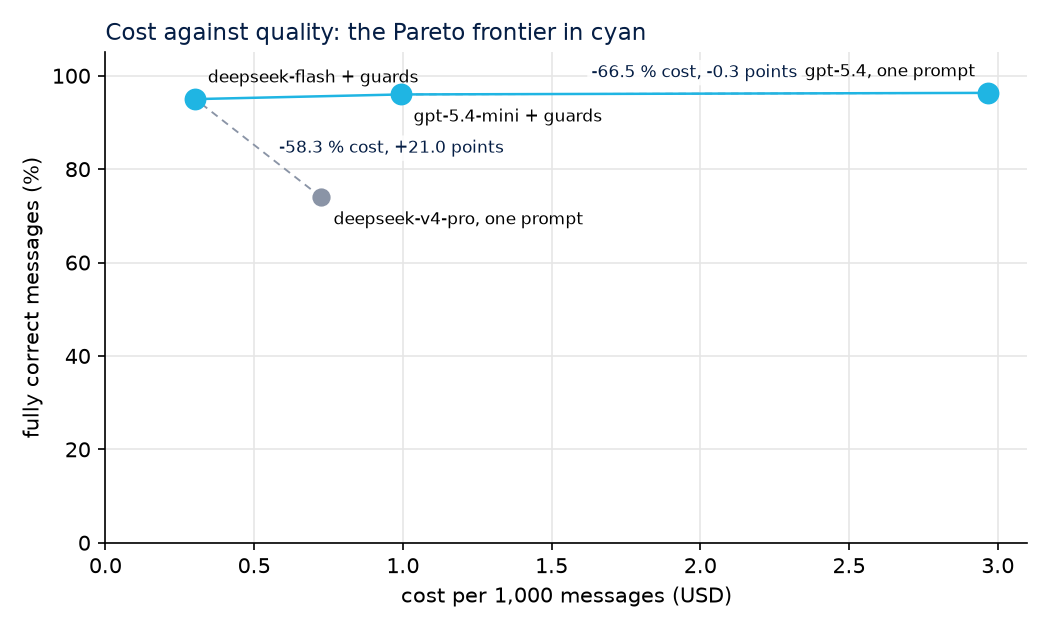
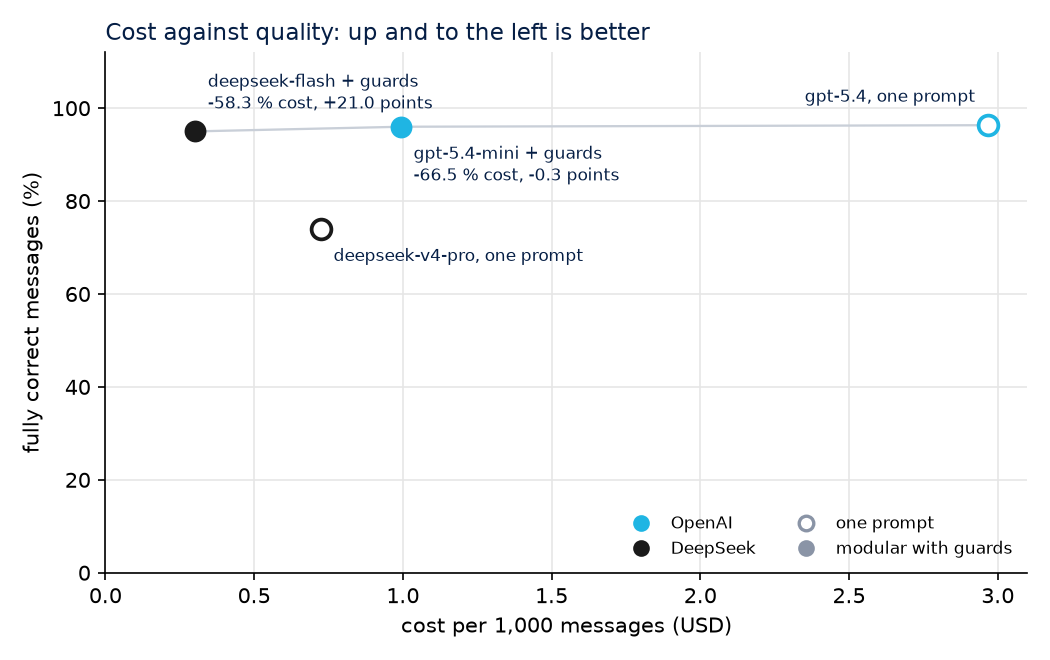
Chart: one colour per provider, hollow for one prompt and filled for the modular design, the pair's distance under each modular point, a legend

diff --git a/bench/report.py b/bench/report.py
@@ -12,6 +12,7 @@ import matplotlib
 matplotlib.use("Agg")
 import matplotlib.pyplot as plt  # noqa: E402
 import polars as pl  # noqa: E402
+from matplotlib.lines import Line2D  # noqa: E402
 
 from .meter import read_ledger  # noqa: E402
 from .pricing import load_prices  # noqa: E402
@@ -22,6 +23,9 @@ from .synth import load as load_cases  # noqa: E402
 
 NAVY, CYAN, GREY, SAND = "#051e45", "#1fb5e3", "#8a94a6", "#d9d2c5"
 PALETTE = [NAVY, CYAN, "#4f6d8f", "#9bd7ef", GREY, SAND]
+# One colour per provider on the cost-against-quality chart.
+PROVIDER_COLOURS = {"openai": CYAN, "anthropic": "#e8742c", "deepseek": "#1a1a1a", "gemini": "#2f9e6b", "mock": GREY}
+PROVIDER_NAMES = {"openai": "OpenAI", "anthropic": "Anthropic", "deepseek": "DeepSeek", "gemini": "Gemini", "mock": "simulated"}
 
 
 def _pct(value: float) -> str:
@@ -101,59 +105,91 @@ def pareto_frontier(points: list[tuple[float, float, str]]) -> list[tuple[float,
     return sorted(frontier)
 
 
+def _big_model(label: str) -> str | None:
+    """The big model behind an architecture's name, or None."""
+    if label.startswith("single (") and label.endswith(")"):
+        return label[8:-1]
+    if label.startswith("modular (") and " fallback)" in label:
+        return label[label.rfind(", ") + 2 : label.rfind(" fallback)")]
+    return None
+
+
 def chart_pareto(frame: pl.DataFrame, path: Path) -> list[str]:
+    """One colour per provider; a hollow point is the big model on one
+    prompt, a filled one the modular design with guards. Under each
+    modular point, its distance to the one-prompt design on the same big
+    model. Lower left is better; the frontier is the grey line."""
     points = list(zip(frame["cost_per_1k_usd"].to_list(), frame["correct"].to_list(), frame["arch"].to_list(), strict=True))
     frontier = pareto_frontier(points)
-    fig, ax = plt.subplots(figsize=(7, 4.2), dpi=150)
+    prices = load_prices()
+    by_label = {label: (cost, quality) for cost, quality, label in points}
+
+    def provider_of(label: str) -> str:
+        big = _big_model(label)
+        return prices[big].provider if big in prices else "mock"
+
+    def colour_of(label: str) -> str:
+        return PROVIDER_COLOURS.get(provider_of(label), GREY)
+
+    fig, ax = plt.subplots(figsize=(7, 4.4), dpi=150)
     widest = max(cost for cost, _, _ in points) or 1
-    # Short names by the points, pulled inwards on the right half. Along
-    # the top band, where the good designs crowd, names alternate above
-    # and below from the left so neighbours never run into each other.
+    if len(frontier) > 1:
+        ax.plot([c for c, _, _ in frontier], [100 * q for _, q, _ in frontier], color="#c9cfd8", linewidth=1.1, zorder=1)
+    # Names by the points, pulled inwards on the right half. Along the top
+    # band, where the good designs crowd, names alternate above and below
+    # from the left so neighbours never run into each other.
     top = [label for cost, quality, label in sorted(points) if quality >= 0.9]
     for cost, quality, label in points:
-        on_frontier = (cost, quality, label) in frontier
-        ax.scatter(cost, 100 * quality, s=90 if on_frontier else 60, color=CYAN if on_frontier else GREY, zorder=3)
+        modular = label.startswith("modular (")
+        colour = colour_of(label)
+        if modular:
+            ax.scatter(cost, 100 * quality, s=90, color=colour, zorder=3)
+        else:
+            ax.scatter(cost, 100 * quality, s=90, facecolors="white", edgecolors=colour, linewidths=1.8, zorder=3)
+        text = _short(label)
+        big = _big_model(label)
+        base = by_label.get(f"single ({big})") if modular and big else None
+        if base and base[0] > 0:
+            text += f"\n{100 * (cost / base[0] - 1):+.1f} % cost, {100 * (quality - base[1]):+.1f} points"
         right = cost > 0.6 * widest
         above = label in top and top.index(label) % 2 == 0
         ax.annotate(
-            _short(label),
+            text,
             (cost, 100 * quality),
             fontsize=8,
-            ha="right" if right else "left",
-            xytext=(-6 if right else 6, 8 if above else -13),
-            textcoords="offset points",
-        )
-    if len(frontier) > 1:
-        ax.plot([c for c, _, _ in frontier], [100 * q for _, q, _ in frontier], color=CYAN, linewidth=1.2, zorder=2)
-    # Each modular design against the single-prompt design on the same big
-    # model: a dashed line between the two and the distance written on it.
-    by_label = {label: (cost, quality) for cost, quality, label in points}
-    for label, (cost, quality) in by_label.items():
-        if not label.startswith("modular (") or " fallback)" not in label:
-            continue
-        big = label[label.rfind(", ") + 2 : label.rfind(" fallback)")]
-        base = by_label.get(f"single ({big})")
-        if not base or base[0] <= 0:
-            continue
-        ax.plot([base[0], cost], [100 * base[1], 100 * quality], color=GREY, linewidth=0.9, linestyle=(0, (4, 3)), zorder=1)
-        note = f"{100 * (cost / base[0] - 1):+.1f} % cost, {100 * (quality - base[1]):+.1f} points"
-        # Above a flat line; beside a steep one, where nothing else sits.
-        steep = abs(quality - base[1]) > 0.05
-        ax.annotate(
-            note,
-            ((base[0] + cost) / 2, 100 * (base[1] + quality) / 2),
-            fontsize=8,
             color=NAVY,
-            ha="left" if steep else "center",
-            va="center" if steep else "bottom",
-            xytext=(10, 0) if steep else (0, 6),
+            ha="right" if right else "left",
+            va="bottom" if above else "top",
+            xytext=(-6 if right else 6, 8 if above else -8),
             textcoords="offset points",
-            bbox={"boxstyle": "round,pad=0.25", "facecolor": "white", "edgecolor": "none", "alpha": 0.85},
+            linespacing=1.3,
         )
+    providers = sorted(
+        {provider_of(label) for _, _, label in points}, key=lambda p: list(PROVIDER_COLOURS).index(p) if p in PROVIDER_COLOURS else 99
+    )
+    handles = [
+        Line2D([], [], marker="o", linestyle="none", markersize=7, color=PROVIDER_COLOURS.get(p, GREY), label=PROVIDER_NAMES.get(p, p))
+        for p in providers
+    ]
+    handles += [
+        Line2D(
+            [],
+            [],
+            marker="o",
+            linestyle="none",
+            markersize=7,
+            markerfacecolor="white",
+            markeredgecolor=GREY,
+            markeredgewidth=1.6,
+            label="one prompt",
+        ),
+        Line2D([], [], marker="o", linestyle="none", markersize=7, color=GREY, label="modular with guards"),
+    ]
+    ax.legend(handles=handles, frameon=False, fontsize=8, loc="lower right", ncol=2)
     ax.set_xlabel("cost per 1,000 messages (USD)")
     ax.set_ylabel("fully correct messages (%)")
-    ax.set_title("Cost against quality: the Pareto frontier in cyan", loc="left", fontsize=11, color=NAVY)
-    ax.set_ylim(0, 105)
+    ax.set_title("Cost against quality: up and to the left is better", loc="left", fontsize=11, color=NAVY)
+    ax.set_ylim(0, 112)
     ax.set_xlim(left=0)
     _style(ax)
     ax.grid(axis="x", color="#e6e6e6", linewidth=0.8)
